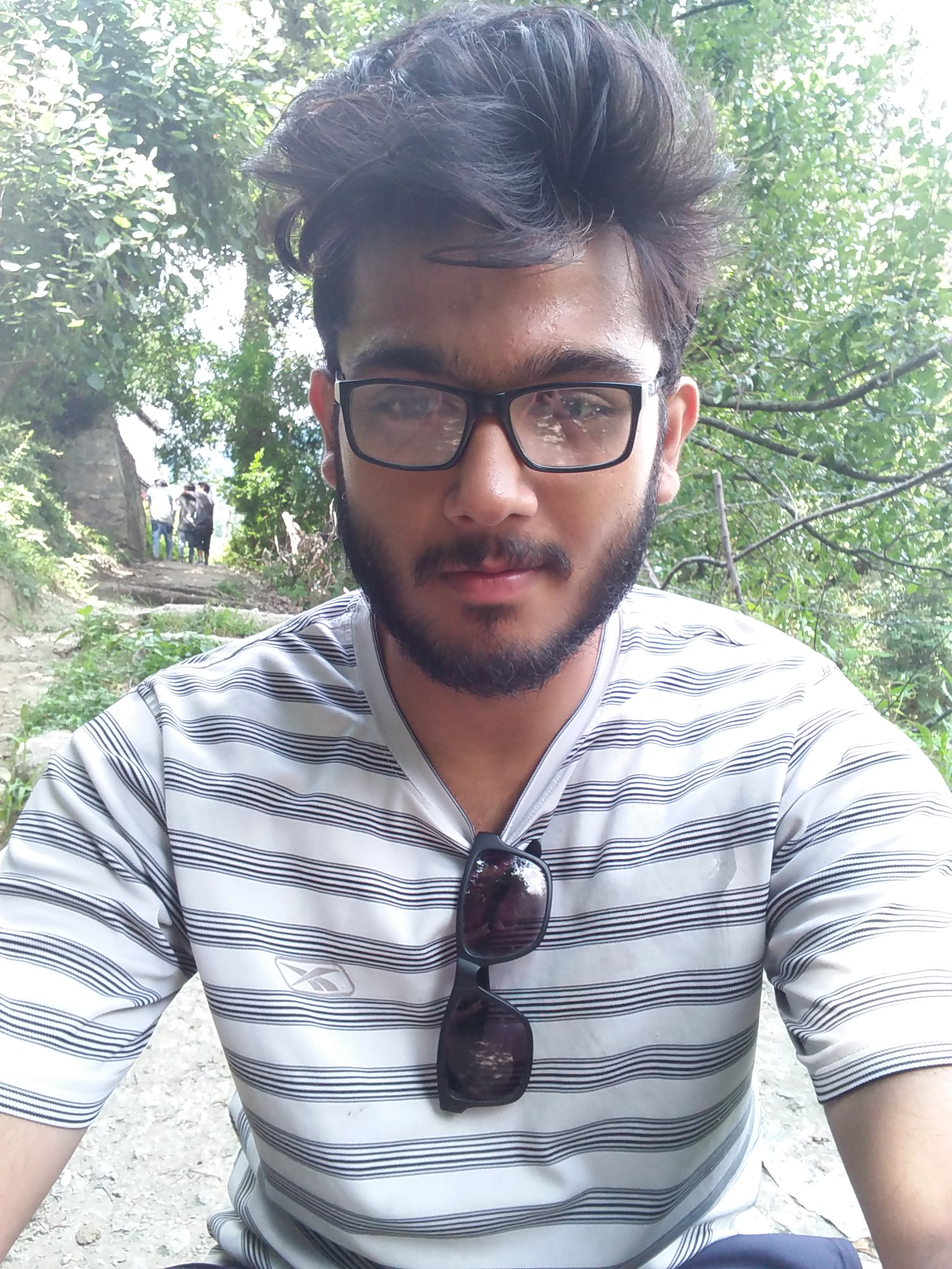
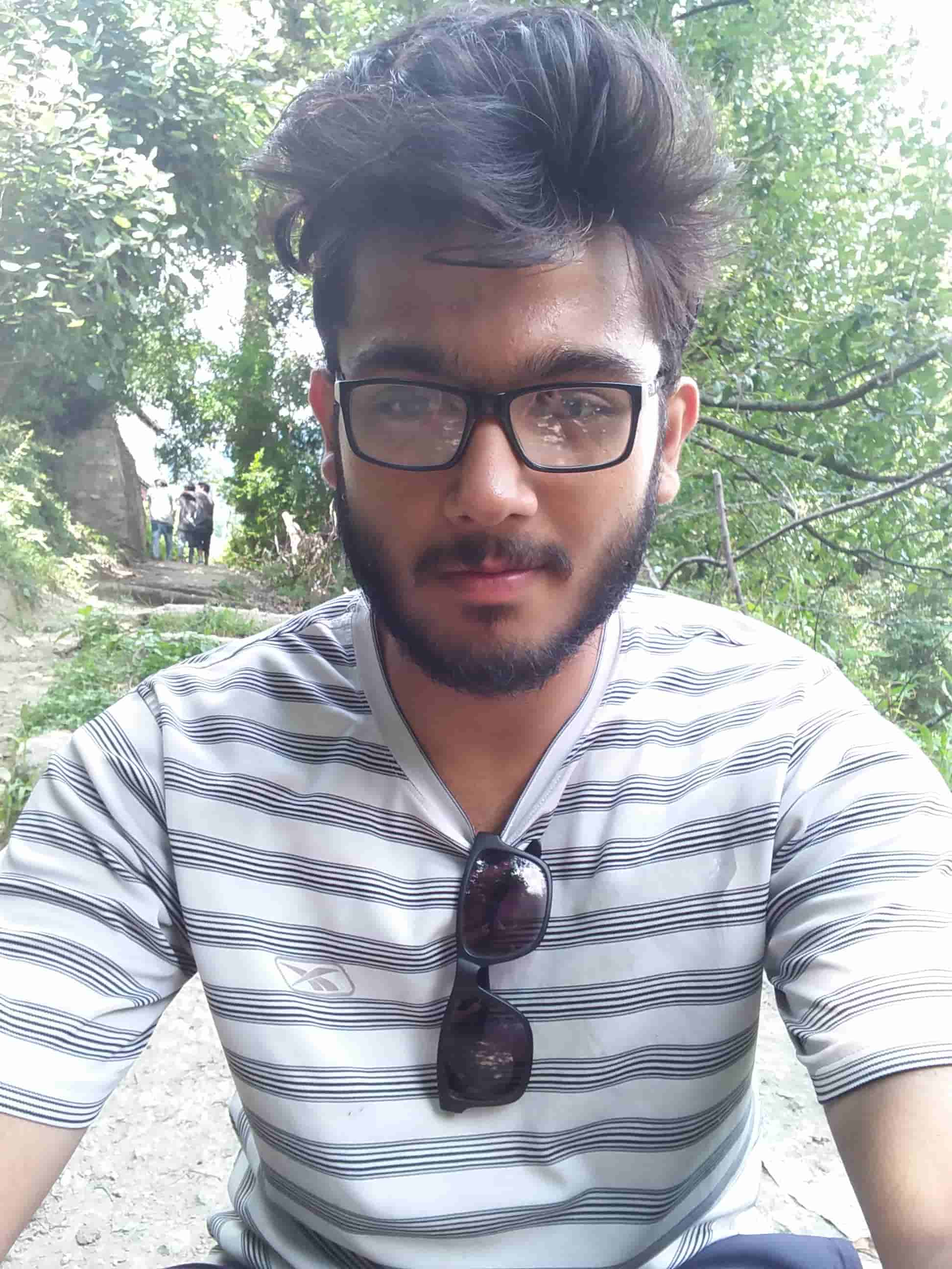
Compressed Images

Changed region(s): [[0.6481, 0.6562, 0.7099, 0.6875], [0.8333, 0.5625, 0.8642, 0.5938], [0.4012, 0.6875, 0.4321, 0.7188]]

diff --git a/index.html b/index.html
@@ -197,7 +197,7 @@
                     <div class="overlay"></div>
                 </div>
                 <div class="team__content--tile">
-                    <img src="/img/team/CA/Sandeep.png" />
+                    <img src="/img/team/CA/Sandeep.jpg" />
                     <div class="overlay"></div>
                 </div>
                 <div class="team__content--tile">
